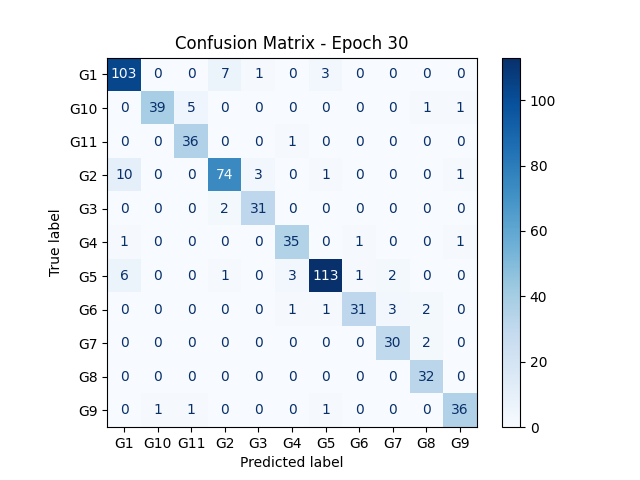
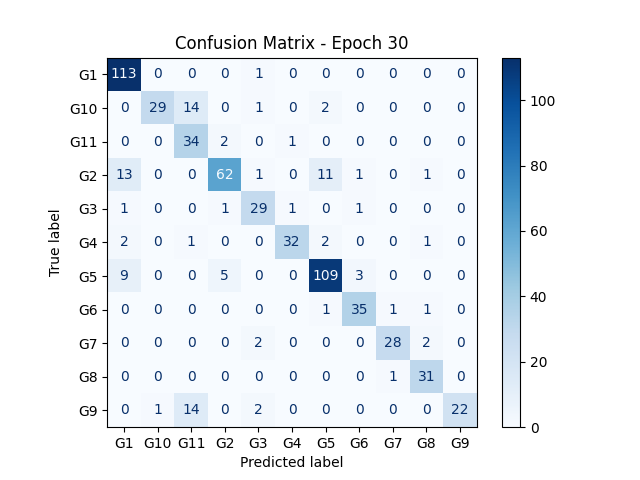
new model

diff --git a/train.py b/train.py
@@ -10,6 +10,7 @@ import json
 
 # Define the path to your dataset
 data_dir = 'labeled'  # Replace with the path to your 'labeled' folder
+epochs = 100  # You can adjust the number of epochs
 
 # Set image size and batch size
 img_height = 480
@@ -81,6 +82,9 @@ model = models.Sequential([
     layers.Conv2D(128, (3, 3), activation='relu', kernel_regularizer=regularizers.l2(0.001)),
     layers.MaxPooling2D((2, 2)),
 
+    layers.Conv2D(128, (3, 3), activation='relu', kernel_regularizer=regularizers.l2(0.001)),
+    layers.MaxPooling2D((2, 2)),
+
     layers.Flatten(),
     layers.Dense(128, activation='relu', kernel_regularizer=regularizers.l2(0.001)),
     layers.Dense(num_classes, activation='softmax')  # Output layer
@@ -137,7 +141,6 @@ class ConfusionMatrixCallback(tf.keras.callbacks.Callback):
 confusion_matrix_callback = ConfusionMatrixCallback(val_images, val_labels, class_names)
 
 # Train the model with the custom callback
-epochs = 50  # You can adjust the number of epochs
 model_checkpoint = ModelCheckpoint('hand_sign_model.keras', save_best_only=True)
 
 early_stopping = EarlyStopping(monitor='val_loss', patience=40, restore_best_weights=True)

diff --git a/visualise.py b/visualise.py
@@ -3,14 +3,7 @@ from tensorflow.keras.utils import plot_model
 
 
 def visualize_model(output_image_path):
-    # Load the JSON model architecture
-    # with open(json_path, 'r') as json_file:
-    #     loaded_model_json = json_file.read()
-    # loaded_model = keras.models.model_from_json(loaded_model_json)
-
-    # Load the model weights
-
-    model = keras.models.load_model('hand_sign_model.keras', safe_mode=False)
+    model = keras.models.load_model('hand_sign_model.keras')
 
     # Visualize the model architecture and save it to an image file
     plot_model(model, to_file=output_image_path, show_shapes=True, show_layer_names=True)

diff --git a/inference.py b/inference.py
@@ -6,7 +6,7 @@ import tensorflow as tf
 import json
 import os
 
-USE_IMAGES = False
+USE_IMAGES = True
 path = "labeled/G2"
 cam_device = 0
 
